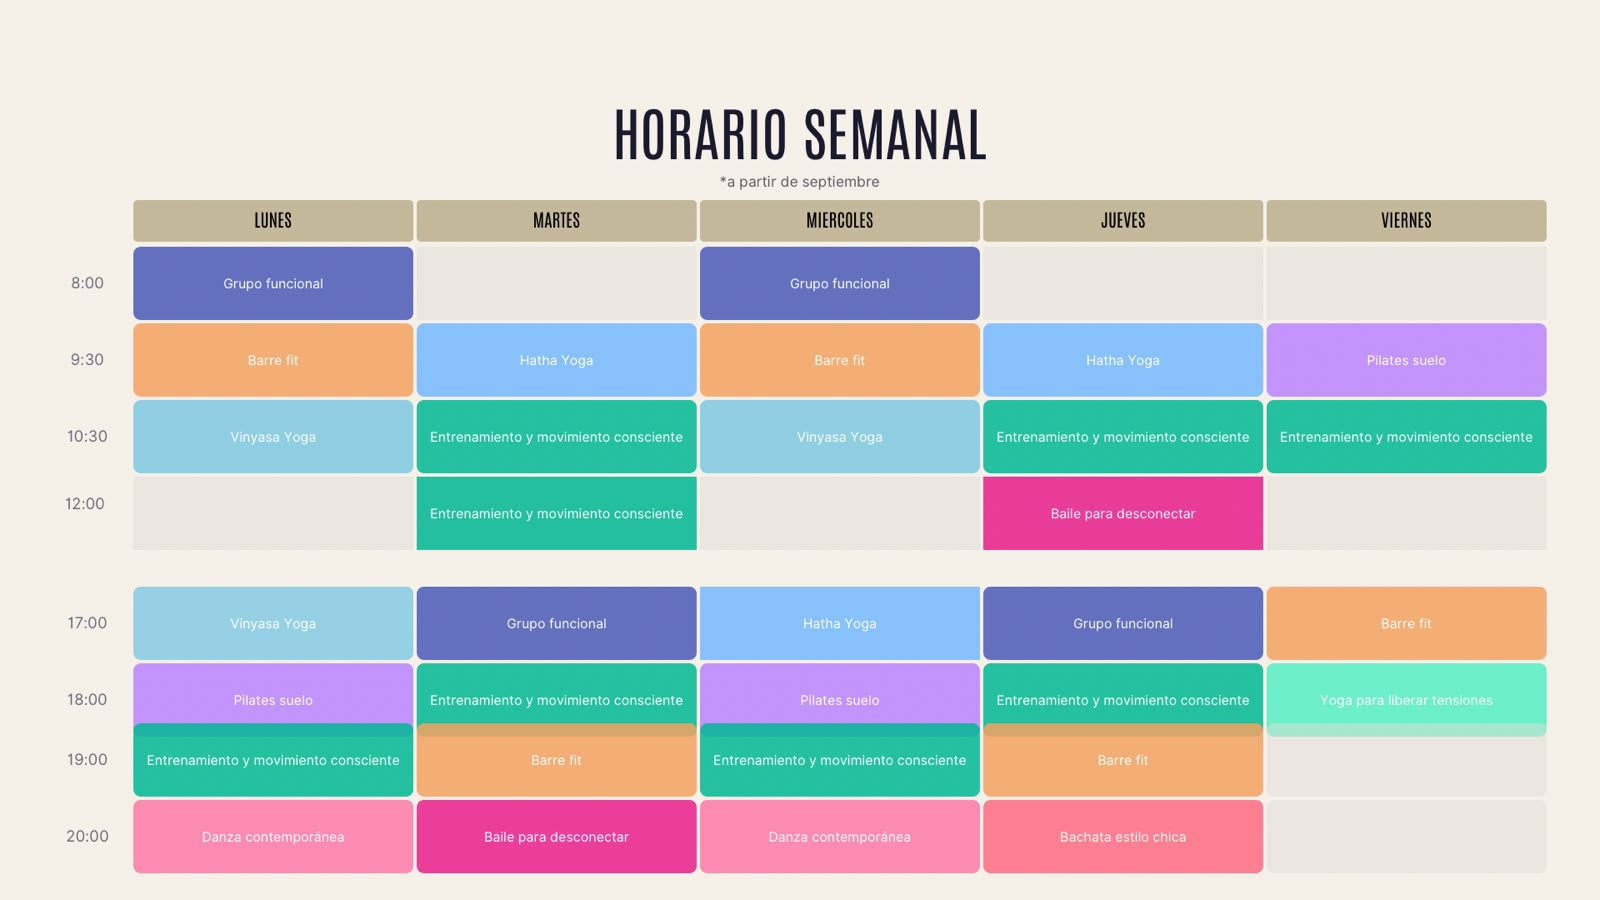
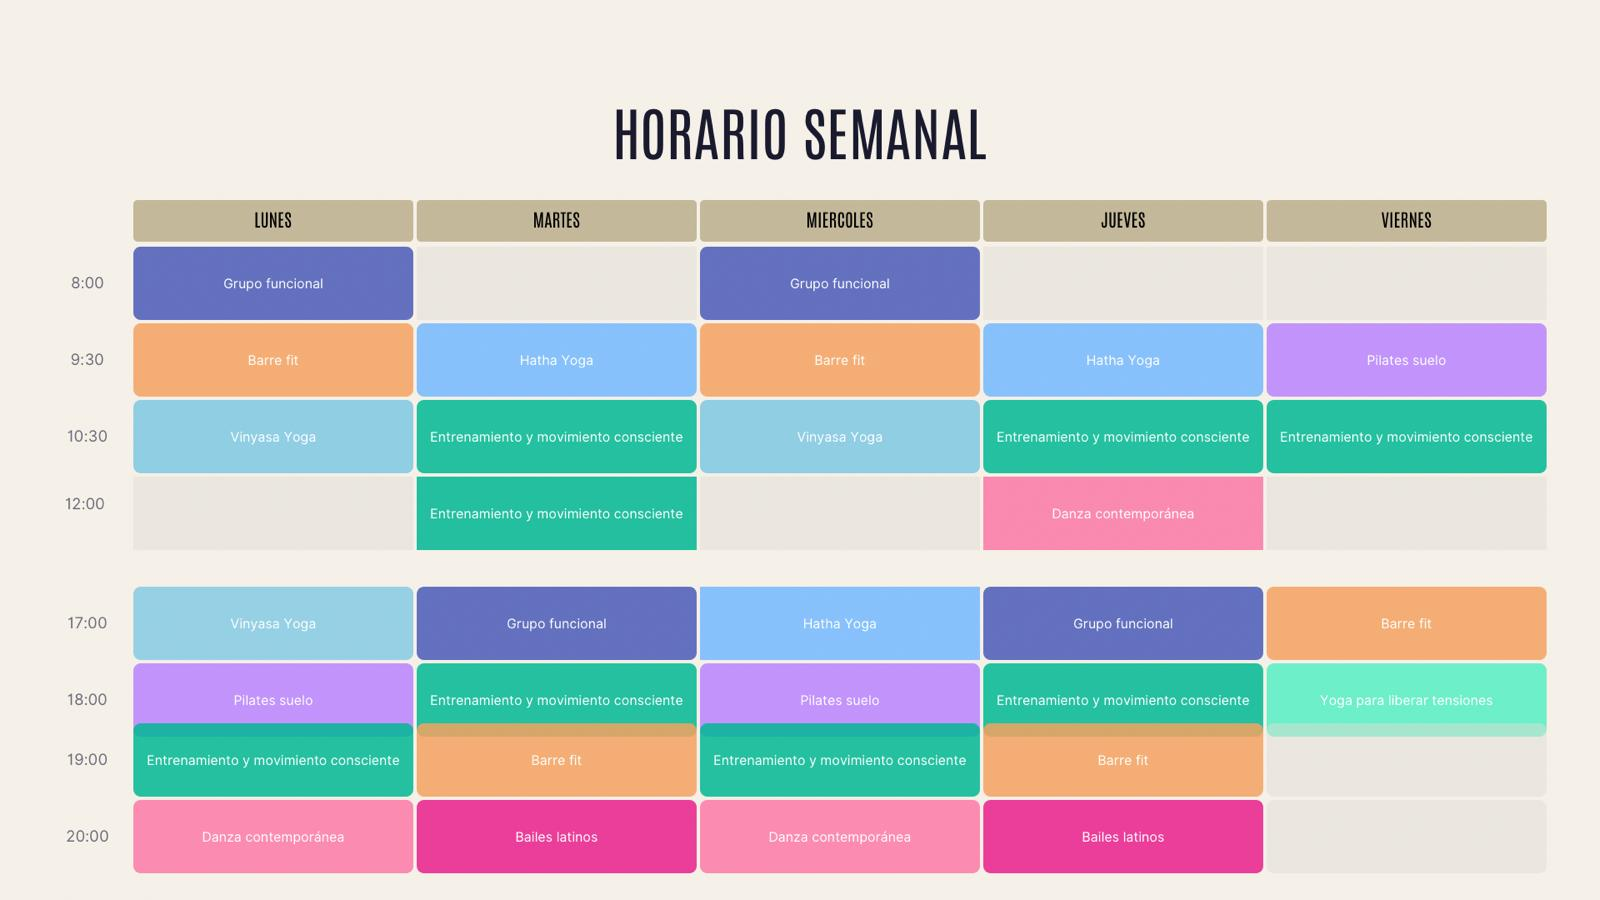
Sección de horario propia y clases de baile
- Nueva sección Horario tras Actividades, con enlace en menú y footer
- Horario actualizado, desplazable en móvil
- Bloque de novedad con el cartel de clases de baile y horarios en texto
- Se retira el horario de la sección Ubicación
- .nvmrc con Node 26

diff --git a/src/i18n/ui.ts b/src/i18n/ui.ts
@@ -7,6 +7,7 @@ const translations = {
     // Nav
     navWhy: 'Por qué',
     navActivities: 'Actividades',
+    navSchedule: 'Horario',
     navAbout: 'Nosotras',
     navContact: 'Contacto',
     navAriaMenu: 'Menú principal',
@@ -59,6 +60,24 @@ const translations = {
     act9Desc: 'Programas específicos para cada etapa de la maternidad. Cuidado, respeto y acompañamiento.',
     actMoreTitle: 'Y mucho más por venir',
     actMoreDesc: 'El proyecto sigue creciendo. Nuevas actividades, talleres y propuestas especiales en camino.',
+
+    // Schedule
+    scheduleLabel: 'Horario',
+    scheduleTitle: 'Encuentra tu clase',
+    scheduleIntro: 'Clases de lunes a viernes, por la mañana y por la tarde. Pulsa el horario para verlo a tamaño completo.',
+    scheduleImgAlt: 'Horario semanal de clases de MovEmSa, de lunes a viernes',
+    scheduleOpen: 'Ver horario a tamaño completo',
+    scheduleSwipe: 'Desliza para ver toda la semana →',
+    danceBadge: 'Novedad',
+    danceTitle: 'Clases de baile',
+    danceIntro: 'Mucho más que baile: muévete, exprésate y desconecta.',
+    dance1Title: 'Danza contemporánea',
+    dance1Times: 'Lunes y miércoles · 20:00<br/>Jueves · 12:00',
+    dance2Title: 'Bailes latinos',
+    dance2Sub: 'Bachata, salsa, merengue, chachachá… Sin pareja. Sin nivel.',
+    dance2Times: 'Martes y jueves · 20:00',
+    danceCta: 'Reserva tu clase',
+    danceImgAlt: 'Cartel de las clases de baile de MovEmSa: danza contemporánea y bailes latinos',
 
     // Team
     teamLabel: 'Sobre nosotras',
@@ -114,6 +133,7 @@ const translations = {
     // Nav
     navWhy: 'Why',
     navActivities: 'Activities',
+    navSchedule: 'Schedule',
     navAbout: 'About',
     navContact: 'Contact',
     navAriaMenu: 'Main menu',
@@ -166,6 +186,24 @@ const translations = {
     act9Desc: 'Specific programs for every stage of motherhood. Care, respect, and support throughout.',
     actMoreTitle: 'And much more to come',
     actMoreDesc: 'The project keeps growing. New activities, workshops, and special offerings on the way.',
+
+    // Schedule
+    scheduleLabel: 'Schedule',
+    scheduleTitle: 'Find your class',
+    scheduleIntro: 'Classes Monday to Friday, mornings and evenings. Tap the schedule to view it full size.',
+    scheduleImgAlt: 'MovEmSa weekly class schedule, Monday to Friday',
+    scheduleOpen: 'View full-size schedule',
+    scheduleSwipe: 'Swipe to see the whole week →',
+    danceBadge: 'New',
+    danceTitle: 'Dance classes',
+    danceIntro: 'Much more than dance: move, express yourself and unwind.',
+    dance1Title: 'Contemporary dance',
+    dance1Times: 'Monday & Wednesday · 20:00<br/>Thursday · 12:00',
+    dance2Title: 'Latin dance',
+    dance2Sub: 'Bachata, salsa, merengue, cha-cha-cha… No partner. No level needed.',
+    dance2Times: 'Tuesday & Thursday · 20:00',
+    danceCta: 'Book your class',
+    danceImgAlt: 'MovEmSa dance classes poster: contemporary dance and Latin dance',
 
     // Team
     teamLabel: 'About us',
